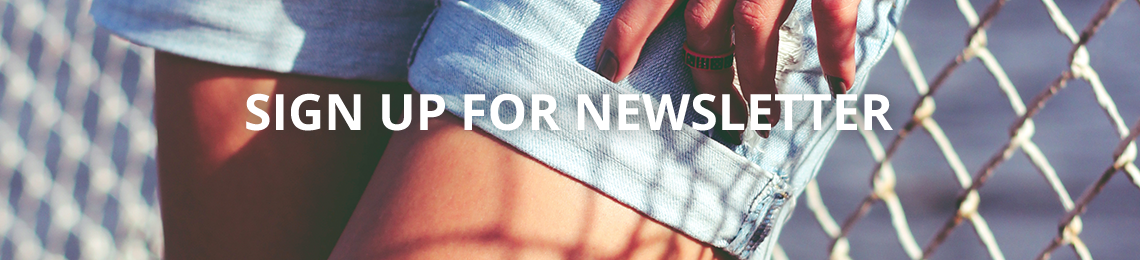
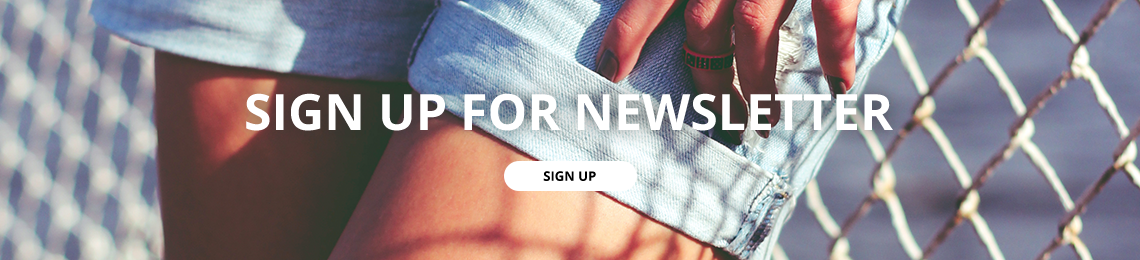
new commit
nuagaga

Changed region(s): [[0.4298, 0.6154, 0.5833, 0.7385]]

diff --git a/css/style.css b/css/style.css
@@ -229,28 +229,8 @@ body {
 		text-align: center;
 		max-height: 260px;
 		
-	}	
-		.newsletter_contain p {
-			margin: auto;
-			color: #000;
-			display: block;
-			position: absolute;
-			width: 135px;
-			height: 30px;
-			text-transform: uppercase;
-			background-color: #fff;
-			font-family: 'Open Sans' sans-serif;
-			font-weight: 700;
-			font-size: 13px;
-			bottom: 26.5%;
-			right: 44.8%;
-			padding-top: 6px;
-			border-radius: 15px;
-		}
-		.newsletter_contain p:hover {
-			color: #00bb99;
-			padding: 6px;
-		}
+	}
+	
 /*newsletter end*/
 /*info*/ 
 .info {

diff --git a/css/media.css b/css/media.css
@@ -22,17 +22,6 @@
 		margin: auto;
 		margin-bottom: 10px !important;
 	}
-	.newsletter .newsletter_contain p {
-		padding-top: 2px;
-		width: 75px;
-		height: 20px;
-		font-size: 11px;
-	}
-	.newsletter .newsletter_contain p:hover {
-		color: #000;
-		padding: 0;
-		padding-top: 2px;
-	}
 
 	.categories .categories_responsive img {
 		width: 460px;

diff --git a/brpTest.html b/brpTest.html
@@ -99,7 +99,6 @@
 	<div class="container newsletter_contain">
 		<a href="#">
 		<img class="img-responsive" src="images/bgr.png" alt="sign up">
-		<p>sign up</p>
 		</a>
 	</div>
 </div>
